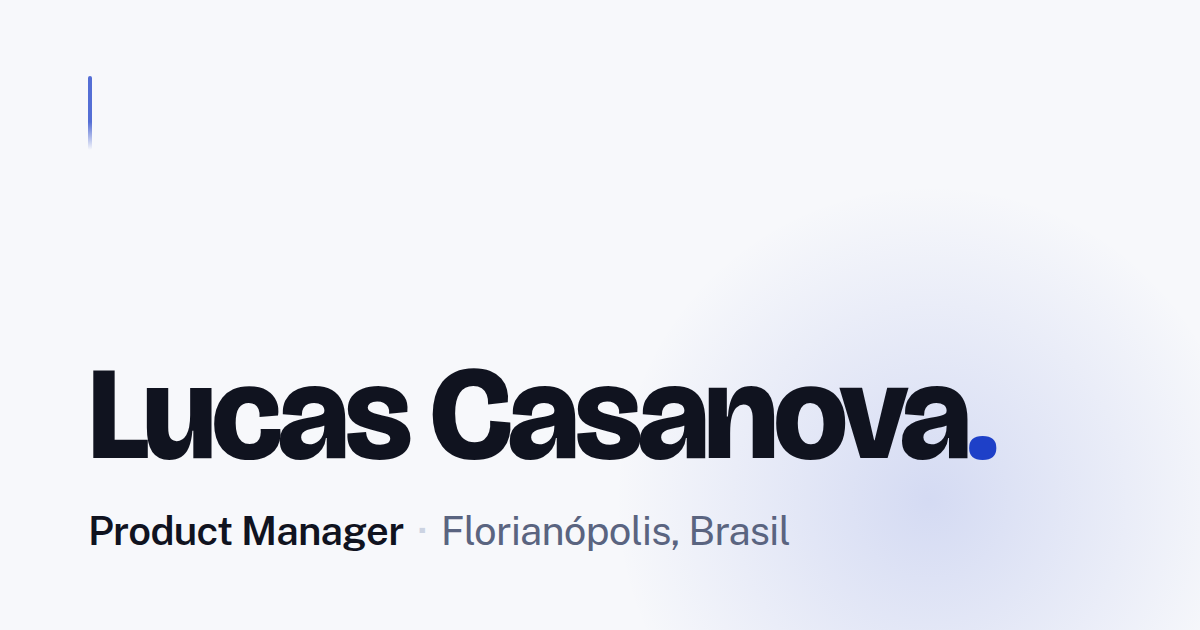
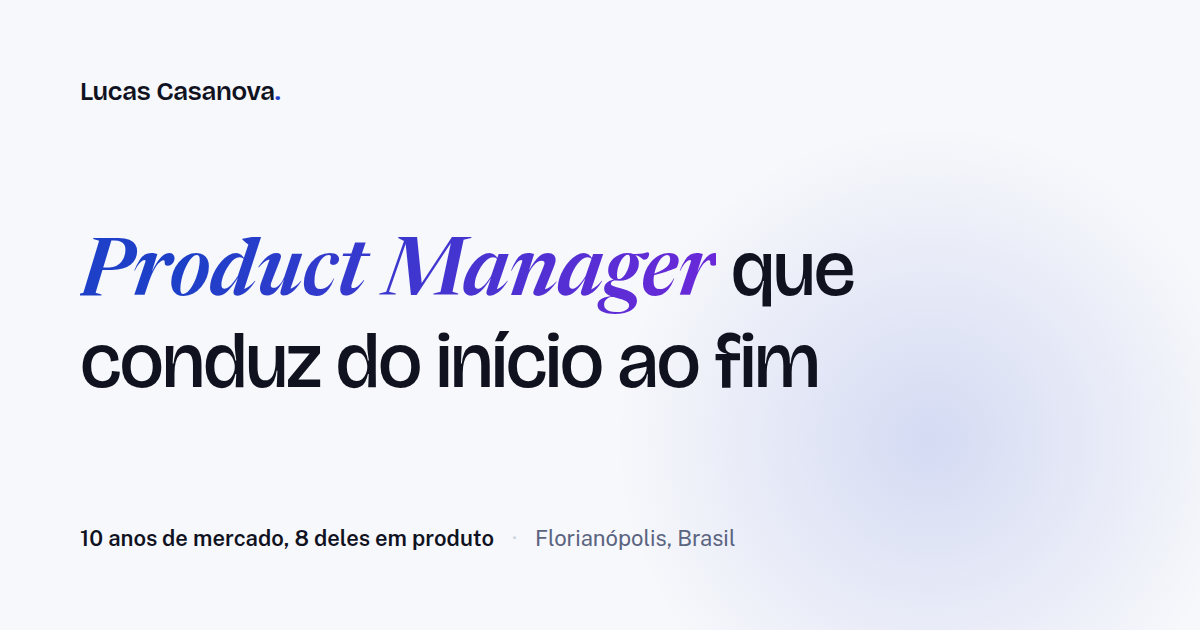
Atualiza os metadados de prévia e regera o cartão de link
URLs

- `og:image` e `twitter:image` viram absolutas, e `og:url` entra. LinkedIn,
  Twitter e Slack não resolvem caminho relativo em `og:image` e não mostram
  imagem nenhuma; o Telegram resolve, e era por isso que o cartão parecia
  funcionar. Não há como derivar o domínio: o robô de preview não executa JS,
  então qualquer coisa calculada em tempo de execução chega tarde demais.
- Entra `?v=2` na imagem, como quebra de cache. As prévias são guardadas pela
  URL, e sem isso o cartão antigo continuaria sendo servido por dias.

Descrições

Alinhadas com o hero novo nos quatro lugares: as duas estáticas do `index.html`,
que são as únicas que o robô lê, e as duas de `content`, que o LocaleProvider usa
para a aba do visitante.

Cartão

Regerado espelhando o hero: o cargo em Newsreader itálico com o gradiente
royal → roxo, o resto da frase em Bricolage 500, o par 10/8 e a cidade no pé, e o
mesmo clarão do hero jogado para o canto inferior direito. O nome sai do corpo
grande e vira assinatura de topo — o `og:title` ao lado já diz "Lucas Casanova ·
Product Manager", e repetir o nome grande gastava o espaço do cartão no que o
texto já entrega.

TRADE-OFF ACEITO: o cartão deixou de ser neutro de idioma. O anterior era só nome,
cargo e cidade e servia aos dois; este é português, porque a frase do cargo e o par
de anos não têm como não ser. O caminho de chegada é link em CV ou LinkedIn e o
público primário é liderança brasileira, mas para vaga fora do Brasil isso custa.
[…]

diff --git a/index.html b/index.html
@@ -10,7 +10,7 @@
     <title>Lucas Casanova · Product Manager</title>
     <meta
       name="description"
-      content="Product Manager sênior. Respondo pelo Inteligência Comercial na Nexfar: catálogo, preço e estoque em tempo real, cotação por OCR e recomendação por IA para a operação comercial de distribuidoras farmacêuticas."
+      content="Portfólio de Lucas Casanova, Product Manager sênior em Florianópolis. 10 anos de mercado, 8 deles em produto. Conduzo o Inteligência Comercial na Nexfar: cotação por OCR, catálogo com preço e estoque em tempo real e recomendação por IA para a operação comercial de distribuidoras farmacêuticas."
     />
     <meta name="theme-color" content="#F7F8FB" />
 
@@ -23,21 +23,33 @@
          sem frase longa. O `LocaleProvider` troca title e description em tempo de
          execução para a aba do visitante, não para o robô.
 
-         `og:url` fica de fora de propósito: o domínio ainda não foi decidido, e
-         uma URL errada aqui é pior que nenhuma. -->
+         AS URLS SÃO ABSOLUTAS E ESTÃO CHUMBADAS. LinkedIn, Twitter e Slack não
+         resolvem caminho relativo em `og:image` e simplesmente não mostram imagem
+         nenhuma; o Telegram resolve, e é por isso que o cartão parecia funcionar.
+         Não há como derivar o domínio aqui: o robô de preview não executa JS, então
+         qualquer coisa calculada em tempo de execução chega tarde demais para ele.
+
+         **Se o domínio mudar, estas três linhas mudam junto** — `og:url`,
+         `og:image`, `twitter:image` e nada mais.
+
+         O `?v=` no fim da imagem é quebra de cache, e não enfeite: LinkedIn,
+         Telegram e Slack guardam a prévia pela URL e podem servir o cartão antigo
+         por dias depois de o arquivo mudar. Trocar o parâmetro cria uma URL nova e
+         força a releitura. **Ao regerar o `og.png`, subir o número.** -->
     <meta property="og:type" content="profile" />
     <meta property="og:site_name" content="Lucas Casanova" />
     <meta property="og:title" content="Lucas Casanova · Product Manager" />
     <meta
       property="og:description"
-      content="Portfólio de Lucas Casanova, Product Manager sênior em Florianópolis. Raciocínio de produto, IA aplicada e a interface desenhada por mim."
+      content="Product Manager que conduz do início ao fim. 10 anos de mercado, 8 deles em produto, com IA e LLM dentro do produto e dentro do processo."
     />
-    <meta property="og:image" content="/og.png" />
+    <meta property="og:url" content="https://casanovaprd.vercel.app/" />
+    <meta property="og:image" content="https://casanovaprd.vercel.app/og.png?v=2" />
     <meta property="og:image:width" content="1200" />
     <meta property="og:image:height" content="630" />
     <meta
       property="og:image:alt"
-      content="Cartão com o nome Lucas Casanova em tipografia grande e, abaixo, Product Manager, Florianópolis, Brasil."
+      content="Cartão com o nome Lucas Casanova no topo e, em tipografia grande, a frase Product Manager que conduz do início ao fim. No pé, dez anos de mercado, oito deles em produto, e Florianópolis, Brasil."
     />
     <meta property="og:locale" content="pt_BR" />
     <meta property="og:locale:alternate" content="en_US" />
@@ -45,9 +57,9 @@
     <meta name="twitter:title" content="Lucas Casanova · Product Manager" />
     <meta
       name="twitter:description"
-      content="Portfólio de Lucas Casanova, Product Manager sênior em Florianópolis. Raciocínio de produto, IA aplicada e a interface desenhada por mim."
+      content="Product Manager que conduz do início ao fim. 10 anos de mercado, 8 deles em produto, com IA e LLM dentro do produto e dentro do processo."
     />
-    <meta name="twitter:image" content="/og.png" />
+    <meta name="twitter:image" content="https://casanovaprd.vercel.app/og.png?v=2" />
 
     <!-- Google Fonts, as três OFL. Três papéis, cada um com um só endereço:
          Bricolage Grotesque em título de seção, pesos 400 a 800, com eixo de

diff --git a/src/content/index.ts b/src/content/index.ts
@@ -207,7 +207,7 @@ const pt: Copy = {
   meta: {
     title: 'Lucas Casanova · Product Manager',
     description:
-      'Product Manager sênior. Respondo pelo Inteligência Comercial na Nexfar: catálogo, preço e estoque em tempo real, cotação por OCR e recomendação por IA.',
+      'Product Manager que conduz do início ao fim. 10 anos de mercado, 8 deles em produto. Conduzo o Inteligência Comercial na Nexfar: cotação por OCR, catálogo em tempo real e recomendação por IA.',
   },
   nav: {
     builds: 'Cases',
@@ -661,7 +661,7 @@ const en: Copy = {
   meta: {
     title: 'Lucas Casanova · Product Manager',
     description:
-      'Senior product manager. I own Inteligência Comercial at Nexfar: real-time catalog, price and stock, OCR quoting and AI order recommendation.',
+      'Product manager who runs the product from start to finish. 10 years in the market, 8 of them in product. I own Inteligência Comercial at Nexfar: OCR quoting, real-time catalog and AI order recommendation.',
   },
   nav: {
     builds: 'Cases',
